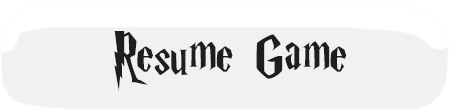
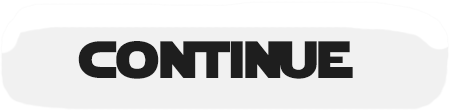
startmenu done

Changed region(s): [[0.1556, 0.2703, 0.8089, 0.7838]]

diff --git a/get_rect/core/src/se/chalmers/get_rect/game/gui/mainMenu/mainMenuView.java b/get_rect/core/src/se/chalmers/get_rect/game/gui/mainMenu/mainMenuView.java
@@ -9,13 +9,15 @@ import se.chalmers.get_rect.utilities.Point;
 public class mainMenuView implements IView {
 
     private static final Point CONTINUE = new Point(0, 0);
-    private static final Point EXIT = new Point(0, 1);
+    private static final Point NEW_GAME = new Point(0, 1);
+    private static final Point EXIT = new Point(0, 2);
+
     private static final String IMG_PATH = "img/pauseMenu/";
 
     private ICameraAdapter camera;
     private AbstractGridModel model;
 
-    public mainMenuView(AbstractGridModel model, ICameraAdapter camera) {
+    public mainMenuView(mainMenu model, ICameraAdapter camera) {
         this.camera = camera;
         this.model = model;
     }
@@ -25,12 +27,11 @@ public class mainMenuView implements IView {
         Point cameraPos = camera.getPosition();
 
         //Backgrounds
-        graphics.draw(IMG_PATH + "menuShader.png", cameraPos);
-        graphics.draw(IMG_PATH + "buttons/pause_menu_bg.png", cameraPos.add(360, 140));
-        graphics.draw(IMG_PATH + "inventory/inventory_bg.png", cameraPos.add(960, 240));
+        graphics.draw(IMG_PATH + "main_menu.png", cameraPos);
 
         //Buttons
         graphics.draw(IMG_PATH + "buttons/continue.png", getRealPosition(CONTINUE));
+        graphics.draw(IMG_PATH + "buttons/new_game.png", getRealPosition(NEW_GAME));
         graphics.draw(IMG_PATH + "buttons/exit.png", getRealPosition(EXIT));
 
 
@@ -41,11 +42,15 @@ public class mainMenuView implements IView {
     public Point getRealPosition(Point gridPosition) {
 
         if (gridPosition.equals(CONTINUE)) {
-            return camera.getPosition().add(430, 390);
+            return camera.getPosition().add(735, 382);
+        }
+
+        if (gridPosition.equals(NEW_GAME)) {
+            return camera.getPosition().add(735, 241);
         }
 
         if (gridPosition.equals(EXIT)) {
-            return camera.getPosition().add(430, 240);
+            return camera.getPosition().add(735, 100);
         }
 
         return null;

diff --git a/get_rect/core/src/se/chalmers/get_rect/game/screens/StartMenuScreen.java b/get_rect/core/src/se/chalmers/get_rect/game/screens/StartMenuScreen.java
@@ -6,6 +6,7 @@ import se.chalmers.get_rect.adapters.ICameraAdapter;
 import se.chalmers.get_rect.adapters.IGraphicsAdapter;
 import se.chalmers.get_rect.game.gui.IOverlay;
 import se.chalmers.get_rect.game.gui.inGameMenu.inGameMenuOverlay;
+import se.chalmers.get_rect.game.gui.mainMenu.mainMenuOverlay;
 
 public class StartMenuScreen implements IScreen {
 
@@ -15,12 +16,13 @@ public class StartMenuScreen implements IScreen {
     public StartMenuScreen(IGame game) {
         System.out.println("StartMenuScreen is initialized");
         camera = game.getCameraFactory().make(GameConfig.SCREEN_WIDTH, GameConfig.SCREEN_HEIGHT);
-        gameMenu = new inGameMenuOverlay(game, camera);
+        gameMenu = new mainMenuOverlay(game, camera);
     }
 
     @Override
     public void enteringState(String previousStateName) {
         System.out.println("Entering StartMenuScreen");
+        gameMenu.enteringState(previousStateName);
     }
 
     @Override
@@ -30,11 +32,11 @@ public class StartMenuScreen implements IScreen {
 
     @Override
     public void update(double delta) {
-
+        gameMenu.update(delta);
     }
 
     @Override
     public void draw(IGraphicsAdapter graphics) {
-
+        gameMenu.draw(graphics);
     }
 }

diff --git a/get_rect/core/src/se/chalmers/get_rect/game/gui/mainMenu/mainMenuOverlay.java b/get_rect/core/src/se/chalmers/get_rect/game/gui/mainMenu/mainMenuOverlay.java
@@ -1,25 +1,22 @@
 package se.chalmers.get_rect.game.gui.mainMenu;
 
 import se.chalmers.get_rect.IGame;
-import se.chalmers.get_rect.adapters.IInputAdapter;
-import se.chalmers.get_rect.game.CameraManager;
+import se.chalmers.get_rect.adapters.ICameraAdapter;
 import se.chalmers.get_rect.game.gui.AbstractGridOverlay;
 import se.chalmers.get_rect.game.gui.GridController;
-import se.chalmers.get_rect.game.gui.inGameMenu.inGameMenuView;
-import se.chalmers.get_rect.utilities.Point;
 
 
 public class mainMenuOverlay extends AbstractGridOverlay {
     private mainMenu model;
 
-    public mainMenuOverlay(IGame game, IInputAdapter input, CameraManager camera) {
+    public mainMenuOverlay(IGame game, ICameraAdapter camera) {
         this.model = new mainMenu(game);
-        setView(new inGameMenuView(camera, model));
-        setController(new GridController(model, input));
+        setView(new mainMenuView(model, camera));
+        setController(new GridController(model, game.getInput()));
     }
 
     @Override
     public void enteringState(String previousStateName) {
-        model.setIndex(new Point(0, 0));
+        model.setup();
     }
 }

diff --git a/get_rect/core/src/se/chalmers/get_rect/game/gui/mainMenu/mainMenu.java b/get_rect/core/src/se/chalmers/get_rect/game/gui/mainMenu/mainMenu.java
@@ -9,21 +9,26 @@ public class mainMenu extends AbstractGridModel {
     private boolean continueAvailable;
 
     public mainMenu(IGame game) {
-        Point startPoint = new Point(0 ,0);
 
         if (game.loadAvailable()) {
-            startPoint = new Point(startPoint.addY(1));
-            addToMap(startPoint, () -> game.load());
-
+            addToMap(0, 0, () -> game.load());
             continueAvailable = true;
         }
 
-        addToMap(startPoint, () -> game.startNew());
+        addToMap(0, 1, () -> game.startNew());
 
-        addToMap(startPoint.addY(1), () -> game.exit());
+        addToMap(0, 2, () -> game.exit());
     }
 
     public boolean getContinueAvailable() {
         return continueAvailable;
+    }
+
+    public void setup() {
+        if (continueAvailable) {
+            setIndex(new Point(0, 0));
+        } else {
+            setIndex(new Point(0, 1));
+        }
     }
 }

diff --git a/get_rect/core/src/se/chalmers/get_rect/game/gui/inGameMenu/inGameMenuView.java b/get_rect/core/src/se/chalmers/get_rect/game/gui/inGameMenu/inGameMenuView.java
@@ -30,7 +30,7 @@ public class inGameMenuView implements IView {
         graphics.draw(IMG_PATH + "inventory/inventory_bg.png", cameraPos.add(960, 240));
 
         //Buttons
-        graphics.draw(IMG_PATH + "buttons/continue.png", getRealPosition(CONTINUE));
+        graphics.draw(IMG_PATH + "buttons/resume_game.png", getRealPosition(CONTINUE));
         graphics.draw(IMG_PATH + "buttons/exit.png", getRealPosition(EXIT));
 
 

diff --git a/get_rect/core/src/se/chalmers/get_rect/Game.java b/get_rect/core/src/se/chalmers/get_rect/Game.java
@@ -109,7 +109,7 @@ public class Game implements IGame {
 
     @Override
     public void load() {
-
+        screens.set("game");
     }
 
     @Override
@@ -119,12 +119,12 @@ public class Game implements IGame {
 
     @Override
     public void startNew() {
-
+        screens.set("game");
     }
 
     @Override
     public boolean loadAvailable() {
-        return false;
+        return true;
     }
 
 
